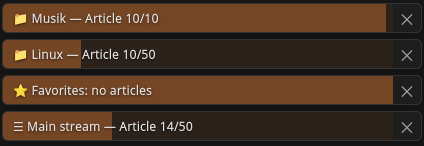
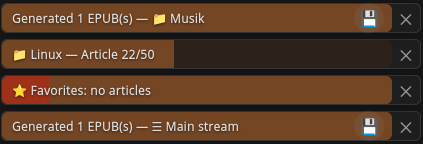
feat: post-push cleanup (mark read + unfav) + README fix

diff --git a/FreshExtension_EinkPush_Worker.php b/FreshExtension_EinkPush_Worker.php
@@ -137,6 +137,9 @@ require_once $helperPath;
 $helper = new EinkPushHelper($epubDir, $screenWidth, $screenHeight, $fontSize, $readabilityUrl);
 $log('Helper created');
 
+require_once __DIR__ . '/FreshExtension_EinkPush_PostPush.php';
+$log('PostPush class loaded');
+
 // ============================================================
 // CONNECTION TEST (push mode only)
 // ============================================================
@@ -162,6 +165,7 @@ $paths = [];
 $totalArticles = 0;
 $processedArticles = 0;
 $currentSource = 0;
+$sourceEntryIds = []; // sourceKey => [entry_id, ...]
 
 foreach ($sources as $key => $srcCfg) {
     if (empty($srcCfg['enabled'])) continue;
@@ -184,9 +188,15 @@ foreach ($sources as $key => $srcCfg) {
         continue;
     }
 
+    // Collect entry IDs for post-push cleanup
+    $entryIds = [];
+    foreach ($entries as $entry) {
+        $entryIds[] = $entry->id();
+    }
+
     $numEntries = count($entries);
     $totalArticles += $numEntries;
-    $write('building', $label . ': ' . $numEntries . ' articles', ['source' => $label, 'articles' => $numEntries, 'totalAllArticles' => $totalArticles]);
+    $write('building', $label . ': ' . $numEntries . ' articles', ['source' => $label, 'articles' => $numEntries, 'totalAllArticles' => $totalArticles, 'entry_ids' => $entryIds]);
 
     try {
         $log('buildEpub START: ' . $numEntries . ' entries, fetchContent=' . ($fetchContent ? 'yes' : 'no') . ', readability=' . ($readabilityUrl ?: 'none'));
@@ -209,7 +219,14 @@ foreach ($sources as $key => $srcCfg) {
     }
 
     $processedArticles += $numEntries;
-    if ($path !== null) $paths[$key] = $path;
+    if ($path !== null) {
+        $paths[$key] = $path;
+        $sourceEntryIds[$key] = $entryIds;
+        // Write sidecar file for download cleanup
+        $sidecarFile = dirname($path) . '/' . basename($path, '.epub') . '_entries.json';
+        file_put_contents($sidecarFile, json_encode(['source' => $key, 'entry_ids' => $entryIds, 'ts' => time()]));
+        $log('Sidecar: ' . $sidecarFile . ' (' . count($entryIds) . ' entries)');
+    }
 }
 
 if (empty($paths)) {
@@ -236,12 +253,22 @@ if ($mode === 'push') {
     }
 
     if ($failed === 0) {
+        // Post-push cleanup: mark as read + un-favorite for all pushed sources
+        $log('Post-push cleanup START');
+        EinkPush_PostPush::cleanupEntries($sourceEntryIds, $sources, $sources);
+        $log('Post-push cleanup DONE');
         $write('done', 'Pushed ' . $success . ' EPUB(s)', ['success' => $success, 'generatedSources' => array_keys($paths)]);
     } else {
+        // Partial push: cleanup only for successfully pushed sources
+        $log('Partial push - no cleanup for failed sources');
         $write('done_with_errors', $success . ' ok, ' . $failed . ' failed', ['success' => $success, 'failed' => $failed, 'generatedSources' => array_keys($paths)]);
     }
     $log('DONE success=' . $success . ' failed=' . $failed);
 } else {
+    // Generate-only mode: cleanup after EPUB creation
+    $log('Post-generate cleanup START');
+    EinkPush_PostPush::cleanupEntries($sourceEntryIds, $sources, $paths);
+    $log('Post-generate cleanup DONE');
     $write('done', 'Generated ' . count($paths) . ' EPUB(s)', ['success' => count($paths), 'generatedSources' => array_keys($paths)]);
     $log('DONE generated=' . count($paths));
 }

diff --git a/Controllers/EinkPushController.php b/Controllers/EinkPushController.php
@@ -286,6 +286,7 @@ class FreshExtension_EinkPush_Controller extends Minz_ActionController {
         }
 
         $paths = [];
+        $sourceEntryIds = [];
         $totalArticles = 0;
         $processedArticles = 0;
         $currentSource = 0;
@@ -310,6 +311,8 @@ class FreshExtension_EinkPush_Controller extends Minz_ActionController {
                 continue;
             }
 
+            $entryIds = array_map(function($e) { return $e->id(); }, $entries);
+
             $numEntries = count($entries);
             $totalArticles += $numEntries;
             $writeProgress('building', ['source' => $label, 'articles' => $numEntries, 'totalAllArticles' => $totalArticles]);
@@ -324,10 +327,9 @@ class FreshExtension_EinkPush_Controller extends Minz_ActionController {
             });
 
             $processedArticles += $numEntries;
-            if ($path !== null) $paths[$key] = $path;
-
-            if ($key === 'favorites' && !empty($srcCfg['removeFromFavorites'])) {
-                $helper->removeFromFavorites(array_map(function($e) { return $e->id(); }, $entries));
+            if ($path !== null) {
+                $paths[$key] = $path;
+                $sourceEntryIds[$key] = $entryIds;
             }
         }
 
@@ -354,6 +356,10 @@ class FreshExtension_EinkPush_Controller extends Minz_ActionController {
             $uconf = FreshRSS_Context::$user_conf ?? null;
             if ($uconf) { $uconf->EinkPush_last_push = time(); $uconf->EinkPush_last_push_type = 'manual'; $uconf->save(); }
         }
+
+        // Post-push cleanup: mark as read + un-favorite
+        require_once __DIR__ . '/../FreshExtension_EinkPush_PostPush.php';
+        EinkPush_PostPush::cleanupEntries($sourceEntryIds, $conf['sources'] ?? [], $paths);
 
         if ($failed === 0) {
             $writeProgress('done', ['success' => $success, 'message' => 'Successfully pushed ' . $success . ' EPUB(s).']);
@@ -579,7 +585,21 @@ class FreshExtension_EinkPush_Controller extends Minz_ActionController {
             exit;
         }
         usort($files, function($a, $b) { return filemtime($b) - filemtime($a); });
-        $this->downloadFile($files[0]);
+        $epubPath = $files[0];
+
+        // Post-download cleanup: read sidecar and mark as read / un-favorite
+        $sidecarPath = dirname($epubPath) . '/' . basename($epubPath, '.epub') . '_entries.json';
+        if (file_exists($sidecarPath)) {
+            $sidecar = json_decode(file_get_contents($sidecarPath), true);
+            if ($sidecar && !empty($sidecar['entry_ids'])) {
+                require_once __DIR__ . '/../FreshExtension_EinkPush_PostPush.php';
+                $sources = $this->extension->getConfig()['sources'] ?? [];
+                EinkPush_PostPush::cleanupEntries([$sourceKey => $sidecar['entry_ids']], $sources, [$sourceKey => $epubPath]);
+            }
+            @unlink($sidecarPath);
+        }
+
+        $this->downloadFile($epubPath);
     }
 
     public function previewAction(): void {

diff --git a/FreshExtension_EinkPush_PostPush.php b/FreshExtension_EinkPush_PostPush.php
@@ -1,0 +1,75 @@
+<?php
+/**
+ * Post-push/download cleanup: mark articles as read and un-favorite.
+ *
+ * Called after successful EPUB generation + push (or just generation for download).
+ * Only acts on sources where markAsRead or removeFromFavorites is enabled.
+ */
+class EinkPush_PostPush {
+
+    /**
+     * Process all sources after push/generate.
+     *
+     * @param array $sourceEntryIds  sourceKey => [entry_id, ...]
+     * @param array $sources         sourceKey => sourceConfig
+     * @param array $paths           sourceKey => filePath (only generated sources)
+     */
+    public static function cleanupEntries(array $sourceEntryIds, array $sources, array $paths): void {
+        if (empty($sourceEntryIds)) {
+            return;
+        }
+
+        $entryDAO = FreshRSS_Factory::createEntryDao();
+        $allIdsToMarkRead = [];
+        $allIdsToUnfavorite = [];
+
+        foreach ($sourceEntryIds as $sourceKey => $entryIds) {
+            if (empty($entryIds)) {
+                continue;
+            }
+
+            // Skip sources where EPUB was not generated
+            if (!isset($paths[$sourceKey])) {
+                continue;
+            }
+
+            $srcCfg = $sources[$sourceKey] ?? [];
+
+            // Mark as read if enabled for this source
+            if (!empty($srcCfg['markAsRead'])) {
+                foreach ($entryIds as $id) {
+                    $allIdsToMarkRead[] = $id;
+                }
+            }
+
+            // Un-favorite: always for favorites source, or if removeFromFavorites enabled
+            if ($sourceKey === 'favorites' || !empty($srcCfg['removeFromFavorites'])) {
+                foreach ($entryIds as $id) {
+                    $allIdsToUnfavorite[] = $id;
+                }
+            }
+        }
+
+        // Batch mark as read (deduplicate)
+        if (!empty($allIdsToMarkRead)) {
+            $allIdsToMarkRead = array_values(array_unique($allIdsToMarkRead));
+            try {
+                $entryDAO->markRead($allIdsToMarkRead, true);
+                error_log('[EinkPush] PostPush: marked ' . count($allIdsToMarkRead) . ' articles as read');
+            } catch (Exception $e) {
+                error_log('[EinkPush] PostPush markAsRead error: ' . $e->getMessage());
+            }
+        }
+
+        // Batch un-favorite (deduplicate)
+        if (!empty($allIdsToUnfavorite)) {
+            $allIdsToUnfavorite = array_values(array_unique($allIdsToUnfavorite));
+            try {
+                $entryDAO->markFavorite($allIdsToUnfavorite, false);
+                error_log('[EinkPush] PostPush: unfavorited ' . count($allIdsToUnfavorite) . ' articles');
+            } catch (Exception $e) {
+                error_log('[EinkPush] PostPush removeFromFavorites error: ' . $e->getMessage());
+            }
+        }
+    }
+}

diff --git a/README.md b/README.md
@@ -14,10 +14,18 @@ Export feeds to EPUB, download or push to your e-ink reader.
 
 ## Screenshots
 
+### Settings & Sidebar
+
 <p align="center">
   <img src="assets/screenshot3.png" alt="Sidebar button" width="35%" />
-  <img src="assets/screenshot2.png" alt="Settings" width="35%" />
-  <img src="assets/screenshot1.png" alt="Progress" width="35%" />
+  <img src="assets/screenshot2.png" alt="Settings page" width="35%" />
+</p>
+
+### Push Progress Bars
+
+<p align="center">
+  <img src="assets/screenshot.png" alt="Progress bars" width="35%" />
+  <img src="assets/screenshot4.png" alt="Auto-dismiss timer" width="35%" />
 </p>
 
 ## Install
